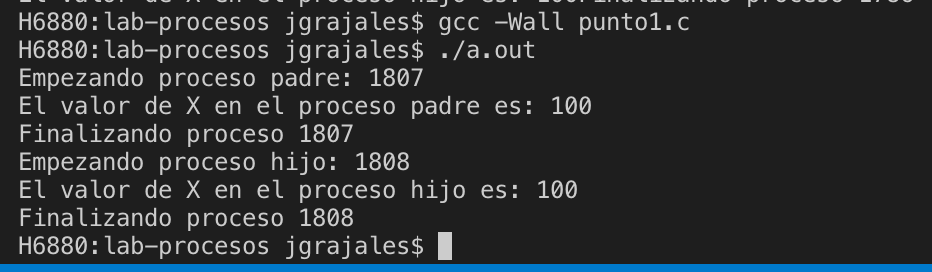
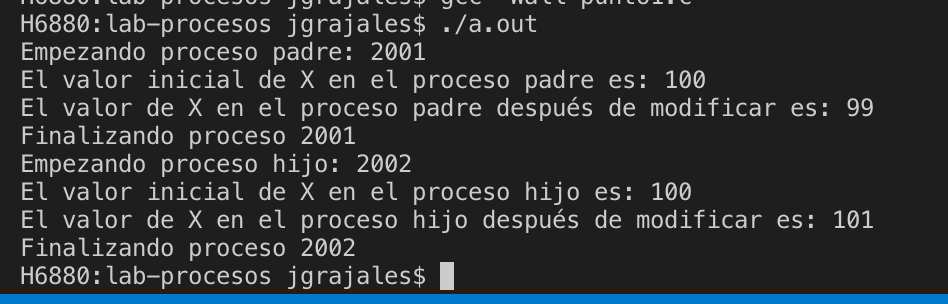
punto 2

Changed region(s): [[0.0, 0.0, 1.0, 0.9706], [0.9335, 0.0, 0.9646, 0.0294]]

diff --git a/punto2.c b/punto2.c
@@ -1,0 +1,32 @@
+#include <stdio.h>
+#include <fcntl.h>
+#include <errno.h>
+#include <unistd.h>
+#include <stdlib.h>
+#include <string.h>
+
+extern int errno;
+
+int main(void){
+    int sz;
+    printf("Empezando proceso padre: %d\n", getpid());
+    int fd = open("foo.txt", O_WRONLY | O_CREAT | O_TRUNC, 0644);
+    if (fd < 0) { 
+     perror("r1"); 
+     exit(1); 
+  } 
+    
+    if(fork()==0){
+        printf("Empezando el proceso hijo: %d\n", getpid());
+        printf("fd = %d/n", fd);
+        sz = write(fd, "Escribiendo desde el hijo\n", strlen("Escribiendo desde el hijo\n")); 
+
+    } else {
+        printf("Proceso padre\n");
+        printf("fd = %d\n", fd);
+        sz = write(fd, "Escribiendo desde el padre\n", strlen("Escribiendo desde el padre\n")); 
+    }
+
+    close(fd); 
+    return 0;
+}

diff --git a/punto1.c b/punto1.c
@@ -7,9 +7,13 @@ int main(void){
     
     if(fork()==0){
         printf("Empezando proceso hijo: %d\n", getpid());
-        printf("El valor de X en el proceso hijo es: %d\n", x);
+        printf("El valor inicial de X en el proceso hijo es: %d\n", x);
+        x=x+1;
+        printf("El valor de X en el proceso hijo después de modificar es: %d\n", x);
     } else {
-        printf("El valor de X en el proceso padre es: %d\n", x);
+        printf("El valor inicial de X en el proceso padre es: %d\n", x);
+        x=x-1;
+        printf("El valor de X en el proceso padre después de modificar es: %d\n", x);
     }
     printf("Finalizando proceso %d\n", getpid());
     return 0;

diff --git a/README.md b/README.md
@@ -9,11 +9,11 @@
 Realizar los siguientes ejercicios:
 
 1. Escriba un programa que llame un ```fork()```. Antes del llamado del ```fork()```, declare una variable de acceso (por ejemplo, ```x```) y asígnele un valor (por ejemplo, ```100```). Responda las siguientes preguntas:
-  * ¿Cuál es el valor de la variable en el proceso hijo?
-  * ¿Qué sucede con la variable cuando el proceso hijo y el padre cambian el valor de ```x```?
+  * ¿Cuál es el valor de la variable en el proceso hijo? Rta/  Es el mismo que en el padre
+  * ¿Qué sucede con la variable cuando el proceso hijo y el padre cambian el valor de ```x```? Rta/ Cada uno cambia su valor de forma independiente sin afectar el otro por tener espacios de memoria diferentes por proceso.
 2. Escriba un programa que abra un archivo (con la llamada ```open()```) y entonces llame a ```fork()```. **Nota**: El siguiente [enlace](https://www.geeksforgeeks.org/input-output-system-calls-c-create-open-close-read-write/) puede ser de utilidad para entender la llamada ```open()```.
-  * ¿Pueden el padre y el hijo acceder al file descriptor retornado por ```open()```? 
-  * ¿Qué pasa si ellos empiezan a escribir el archivo de manera concurrente, es decir, a la misma vez?
+  * ¿Pueden el padre y el hijo acceder al file descriptor retornado por ```open()```?  Rta/ Si pueden, el descriptor retornado para ambos es el mismo cuando el archivo no existe y se crea desde cero (Ver imagen punto2-a.png)
+  * ¿Qué pasa si ellos empiezan a escribir el archivo de manera concurrente, es decir, a la misma vez? Rta: El archivo se escribe con los caracteres enviados tanto del padre como del hijo. (ver imagen punto2-b.png)
 3. Escriba un programa usando ```fork()```. El proceso hijo imprimirá ```"Hello"```; el proceso padre imprimirá ```"goodbye"```. Usted deberá asegurar que el proceso hijo imprima en primer lugar; ¿usted podría hacer esto sin llamar ```wait()``` en el padre? 
 4. Escriba un programa que llame ```fork()``` y entonces llame alguna forma de ```exec()``` para correr el programa ```/bin/ls```. Intente probar todas las variaciones de la familia de funciones ```exec()``` incluyendo (en linux) ```execl()```, ```execle()```, ```execlp()```, ```execv()```, ```execvp()``` y ```execvpe()```. ¿Por qué piensa usted que existen tantas variaciones para la misma llamada básica?
 5. Escriba ahora un programa que use ```wait()``` para esperar que el proceso hijo finalice su ejecución. ¿Cuál es el valor de retorno de la función ```wait()```?, ¿Qué pasa si usted usa la función ```wait``` en el hijo?
